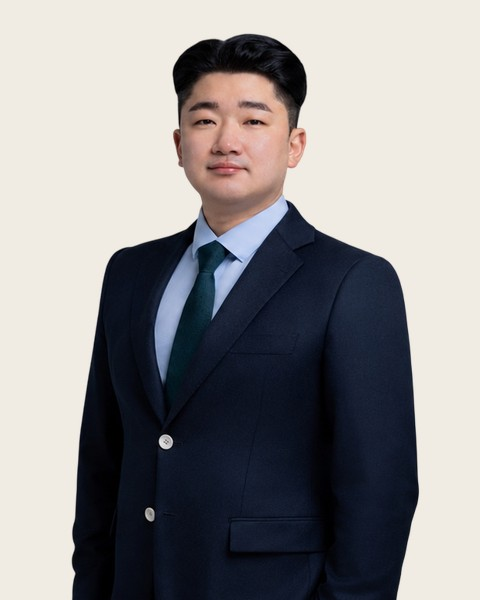
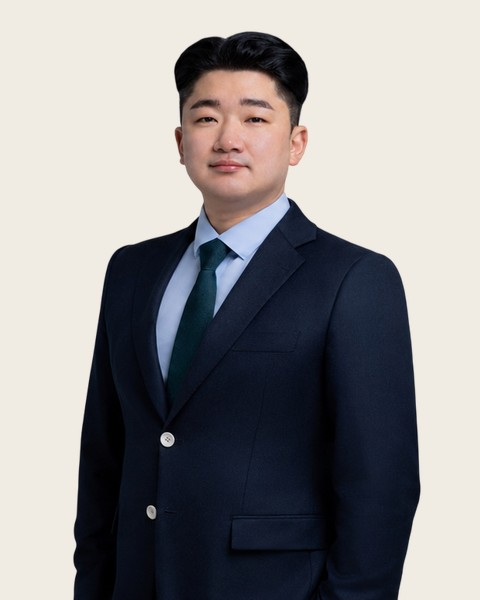
fix: 강사 사진 바스트샷 가운데 정렬 및 주차 안내 문장별 줄바꿈 (busan-0908) (#35)
- 강사 사진을 알파 채널 기준 얼굴 중심으로 재크롭해 프레임 정중앙 정렬
- 주차 안내를 문장마다 줄바꿈하고 '·' 구분자 제거

Claude-Session: https://claude.ai/code/session_01UR947BisPfbQooK7mR3RaA

diff --git a/busan-0908/index.html b/busan-0908/index.html
@@ -301,7 +301,7 @@
 
       <!-- Speaker 1 -->
       <div class="reveal" style="margin-top:24px;display:flex;gap:16px;align-items:flex-start;background:#FFFFFF;border:1px solid rgba(122,92,58,0.12);border-radius:20px;padding:18px;">
-        <div style="flex:none;width:96px;height:120px;border-radius:14px;overflow:hidden;border:2px solid #21B24E;background-image:url('../assets/speaker-lee-juhyun.jpg');background-size:cover;background-position:50% 0%;"></div>
+        <div style="flex:none;width:96px;height:120px;border-radius:14px;overflow:hidden;border:2px solid #21B24E;background-image:url('../assets/speaker-lee-juhyun.jpg');background-size:cover;background-position:center;"></div>
         <div style="flex:1;min-width:0;">
           <div style="display:inline-flex;font-size:11px;font-weight:800;letter-spacing:1px;color:#13923E;background:#E7F6EC;padding:4px 9px;border-radius:6px;">PART 1 · 병의원 세무</div>
           <div style="margin-top:10px;font-size:19px;font-weight:800;color:#211A12;letter-spacing:-0.4px;">이주현 <span style="font-size:14px;font-weight:600;color:#6E6458;">세무사</span></div>
@@ -311,7 +311,7 @@
 
       <!-- Speaker 2 -->
       <div class="reveal" data-delay="80" style="margin-top:14px;display:flex;gap:16px;align-items:flex-start;background:#FFFFFF;border:1px solid rgba(122,92,58,0.12);border-radius:20px;padding:18px;">
-        <div style="flex:none;width:96px;height:120px;border-radius:14px;overflow:hidden;border:2px solid #9670DC;background-image:url('../assets/speaker-kang.jpg');background-size:cover;background-position:50% 0%;"></div>
+        <div style="flex:none;width:96px;height:120px;border-radius:14px;overflow:hidden;border:2px solid #9670DC;background-image:url('../assets/speaker-kang.jpg');background-size:cover;background-position:center;"></div>
         <div style="flex:1;min-width:0;">
           <div style="display:inline-flex;font-size:11px;font-weight:800;letter-spacing:1px;color:#6B47B8;background:#F1EAFB;padding:4px 9px;border-radius:6px;">PART 2 · 법인전환</div>
           <div style="margin-top:10px;font-size:19px;font-weight:800;color:#211A12;letter-spacing:-0.4px;">강경연 <span style="font-size:14px;font-weight:600;color:#6E6458;">세무사</span></div>
@@ -375,7 +375,7 @@
       <!-- Parking notice -->
       <div class="reveal" data-delay="240" style="margin-top:14px;display:flex;gap:11px;align-items:flex-start;background:#FCEEE9;border:1px solid rgba(196,90,60,0.2);border-radius:14px;padding:15px 16px;">
         <svg width="19" height="19" viewBox="0 0 24 24" fill="none" stroke="#C0492C" stroke-width="2.2" stroke-linecap="round" stroke-linejoin="round" style="flex:none;margin-top:1px;" aria-hidden="true"><path d="M12 9v4M12 17h.01"/><path d="M10.3 3.9 1.8 18a2 2 0 0 0 1.7 3h17a2 2 0 0 0 1.7-3L13.7 3.9a2 2 0 0 0-3.4 0z"/></svg>
-        <p style="margin:0;font-size:13.5px;line-height:1.55;color:#8A3A22;font-weight:500;"><b style="font-weight:700;">주차 안내</b> · 별도 주차 공간이 없습니다. 인근 유료 주차장 또는 대중교통 이용을 권장드립니다.</p>
+        <p style="margin:0;font-size:13.5px;line-height:1.55;color:#8A3A22;font-weight:500;"><b style="font-weight:700;">주차 안내</b><br>별도 주차 공간이 없습니다.<br>인근 유료 주차장 또는 대중교통 이용을 권장드립니다.</p>
       </div>
     </section>
 
